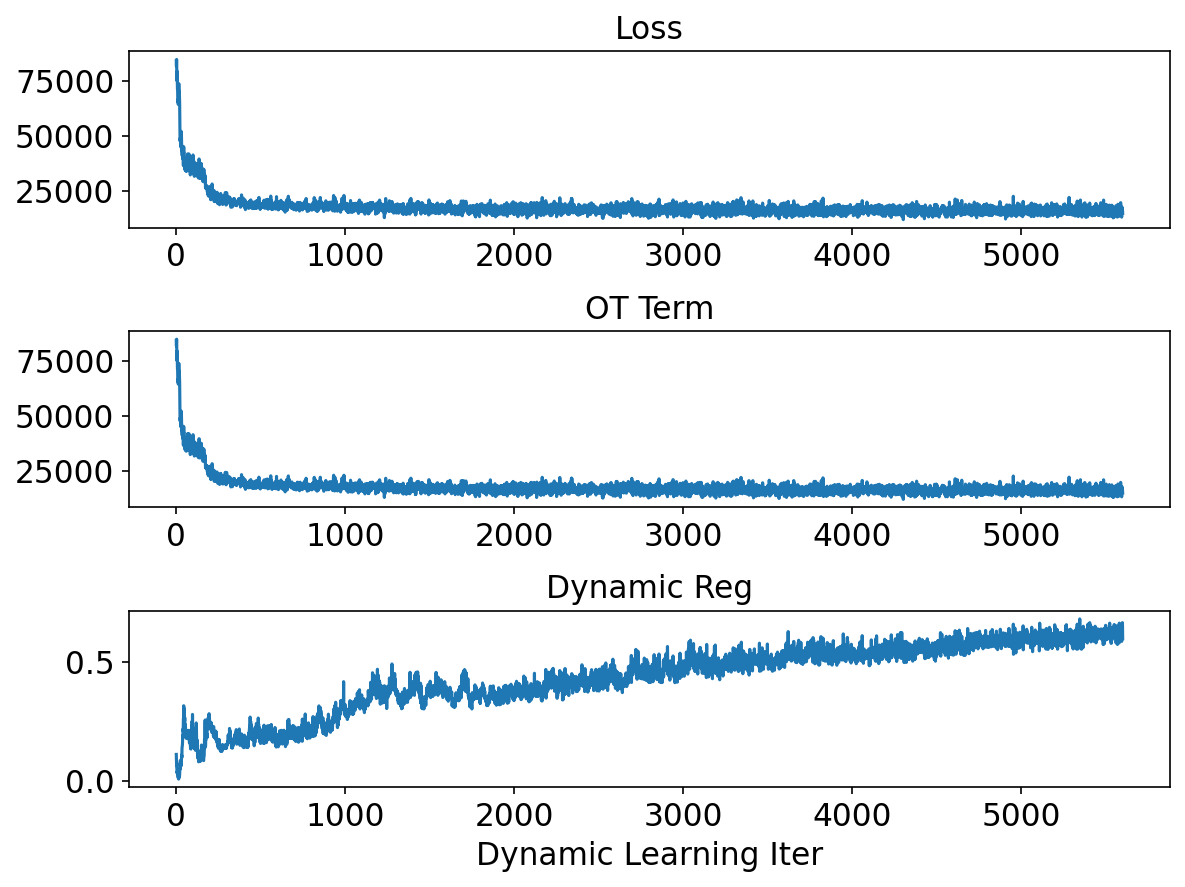
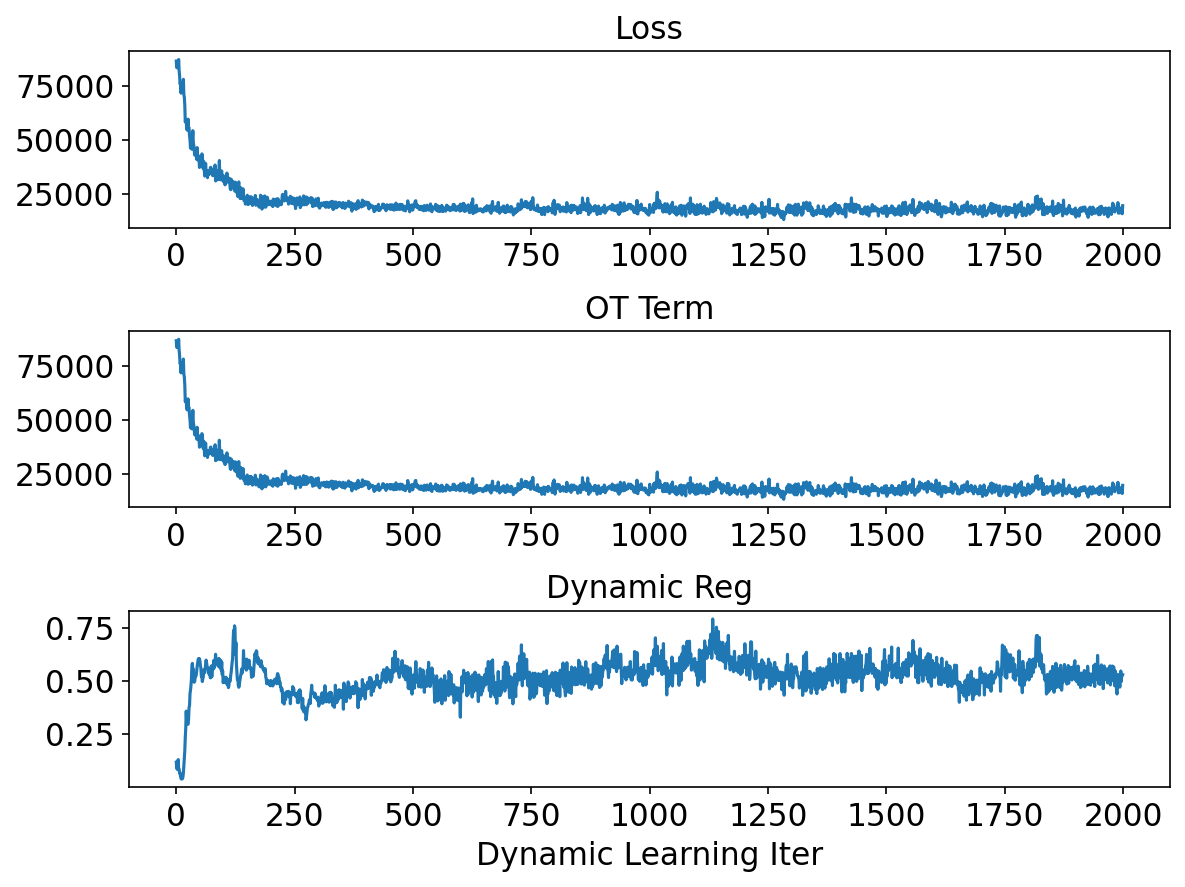
增加了细胞数量和头数的可用版本

diff --git a/benchmark/5_SingleCell_TimelyGPT.py b/benchmark/5_SingleCell_TimelyGPT.py
@@ -268,13 +268,13 @@ print("="*70)
 print("1. CONFIGURATION")
 # --- 配置 ---
 DATA_NAME, SPLIT_TYPE = "zebrafish", "three_interpolation"
-LATENT_DIM = 50
+LATENT_DIM = 64
 LATENT_COEFF = 1.0  # Regularization coefficient for latent trajectory smoothing (beta)
-N_PRED_CELLS = 2000  # Number of cells to predict
-MAX_EPOCHS = 100  # Maximum number of epochs
+N_PRED_CELLS = 5000  # Number of cells to predict
+MAX_EPOCHS = 20  # Maximum number of epochs
 EARLY_STOP_PATIENCE = 10  # Stop if best model is not updated for this many epochs
 BATCH_SIZE = 32
-PRETRAIN_LR = 1e-4
+PRETRAIN_LR = 3e-4
 PRETRAIN_ITERS = 500  # Number of pre-training iterations
 LR = 1e-3
 DEVICE = "cuda" if torch.cuda.is_available() else "cpu"
@@ -317,7 +317,7 @@ vae = VAE(n_genes, LATENT_DIM).to(DEVICE)
 # 关键设置：use_default_gamma=True → 使用固定衰减向量
 timely_gpt_config = RetNetConfig(
     num_layers=3,
-    num_heads=5,  # 必须能整除v_dim
+    num_heads=8,  # 必须能整除v_dim
     d_model=LATENT_DIM,
     qk_dim=LATENT_DIM,
     v_dim=LATENT_DIM,
